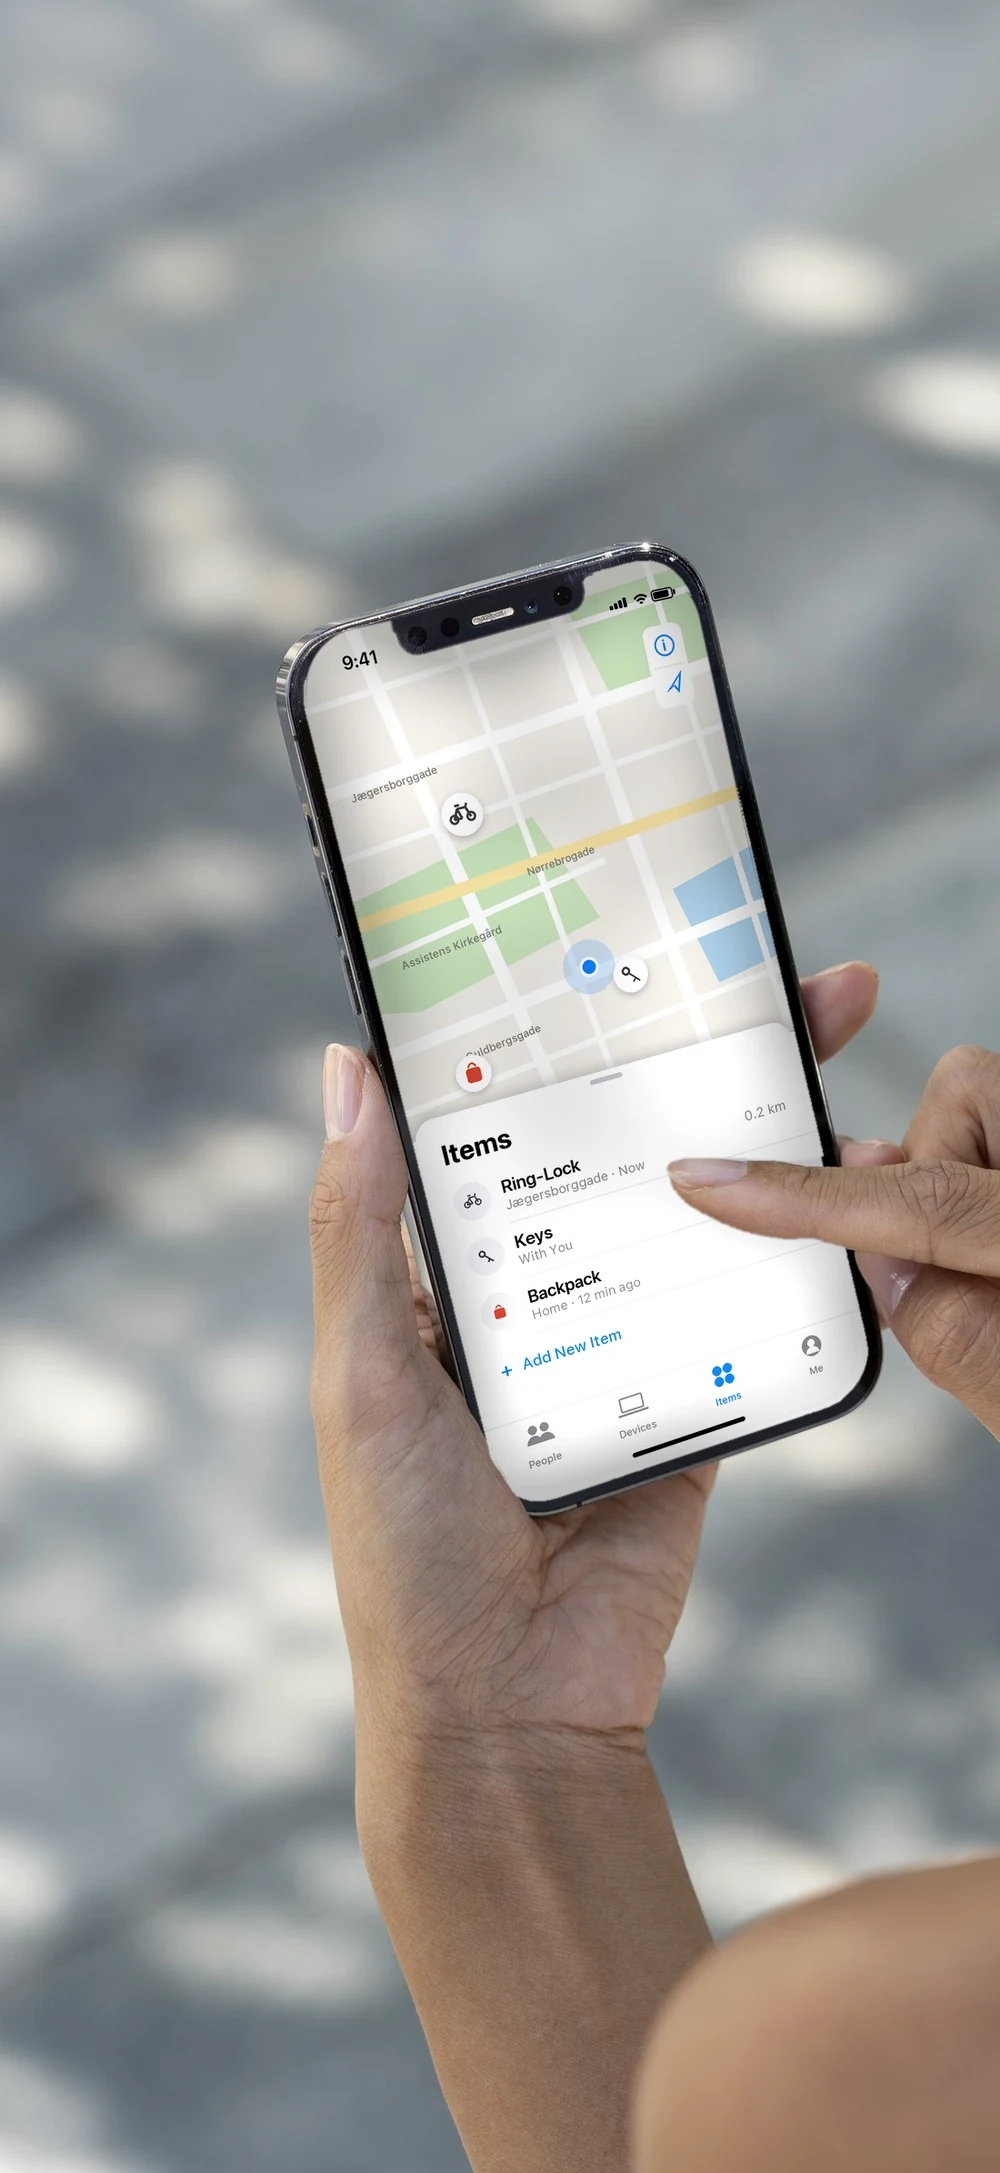
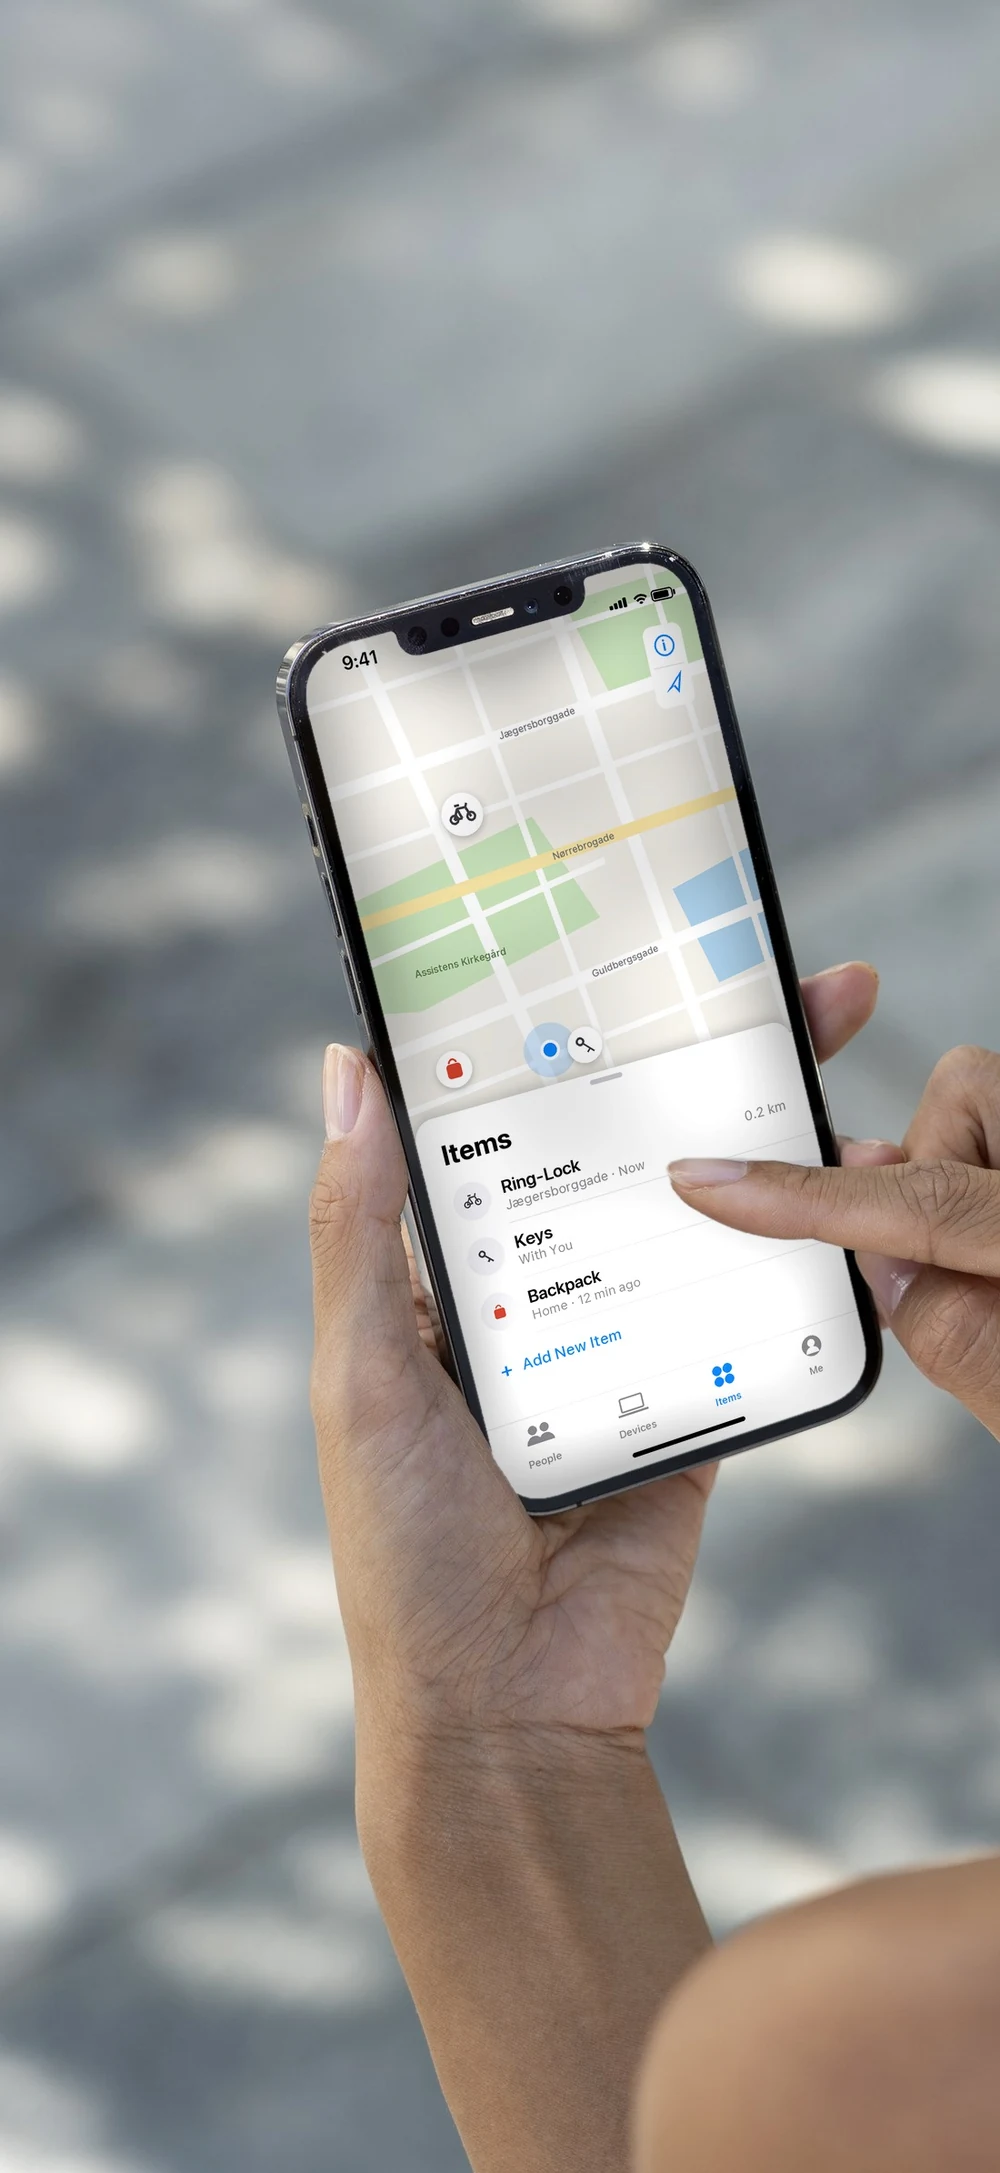
Find My frame: the new screen sits only on the phone's own glass (black border and steel untouched), street names on their streets

diff --git a/index.html b/index.html
@@ -119,7 +119,7 @@
   <!-- find my: the phone rides with the lock, the bike lying on its map -->
   <div class="fmp">
     <!-- the Apple Find My Items screen, the Ring-Lock first in the list (the drawn map and sheet below stay for the script, hidden) -->
-    <img class="fmp__screen" src="images/story/findmy-screen.webp?v=2" alt="" decoding="async">
+    <img class="fmp__screen" src="images/story/findmy-screen.webp?v=3" alt="" decoding="async">
     <svg class="map" viewBox="590 300 520 1130" preserveAspectRatio="xMidYMin slice">
       <rect x="0" y="0" width="1600" height="1400" fill="#ECECEA"/>
       <path class="map__water" d="M1180 -20 C1150 120 1210 230 1170 360 C1135 470 1215 560 1240 690 C1262 800 1215 900 1250 1030 C1270 1150 1230 1260 1250 1400 L1620 1400 L1620 -20 Z"/>
@@ -199,7 +199,7 @@
   <section class="tale" id="moved" data-nav-section="intro" data-tone="dark" data-bg="#202F30" data-key='{"hide":1}' aria-labelledby="h1c">
     <div class="tale__pin">
       <figure class="tale__shot is-on" data-i="0"><picture><source media="(max-width: 760px)" srcset="images/story/crowd-m.webp"><img src="images/story/crowd-wide.webp" alt="She looks around a park, trying to remember where she parked" decoding="async"></picture></figure>
-      <figure class="tale__shot" data-i="1"><picture><source media="(max-width: 760px)" srcset="images/story/findmy-m.webp?v=5"><img src="images/story/findmy-wide.webp?v=6" alt="On her iPhone, a map shows where her bike is" decoding="async"></picture></figure>
+      <figure class="tale__shot" data-i="1"><picture><source media="(max-width: 760px)" srcset="images/story/findmy-m.webp?v=6"><img src="images/story/findmy-wide.webp?v=7" alt="On her iPhone, a map shows where her bike is" decoding="async"></picture></figure>
       <figure class="tale__shot" data-i="2"><picture><source media="(max-width: 760px)" srcset="images/story/search-m.webp?v=2"><img src="images/story/search-wide.webp?v=4" alt="She taps Unlock in the LAAS app" decoding="async" loading="lazy"></picture></figure>
       <figure class="tale__shot" data-i="3"><picture><source media="(max-width: 760px)" srcset="images/story/ride-m.webp"><img src="images/story/ride-wide.webp" alt="She rides away across the square" decoding="async" loading="lazy"></picture></figure>
       <div class="tale__copy">
